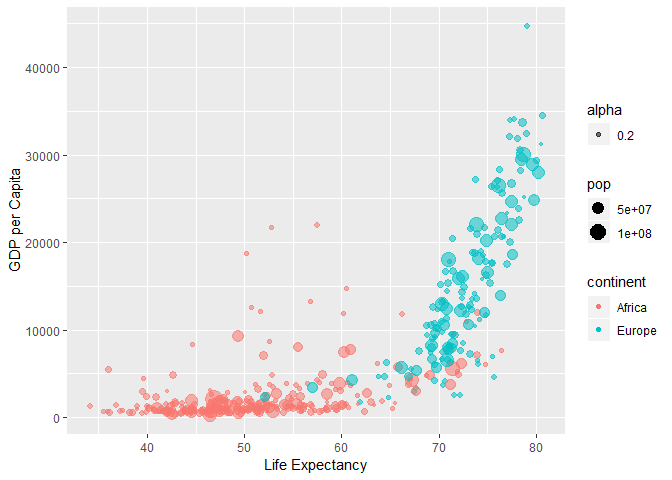
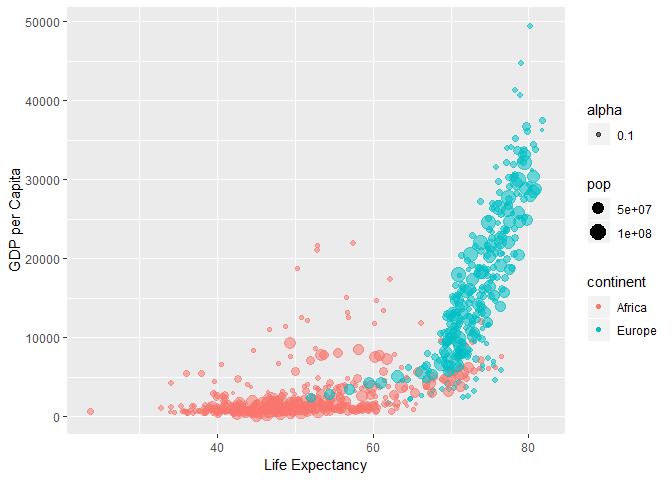
Final

diff --git a/hw02-schignel.md b/hw02-schignel.md
@@ -166,7 +166,7 @@ Let's explore how life expectancy varies across continents.
 
 ``` r
 cvsl <-select(gapminder, continent, lifeExp, pop) #Factor, #Number, and #Integer, respectively
-cvsl # continents vs life expactancy
+cvsl # continents vs life expectancy
 ```
 
     ## # A tibble: 1,704 x 3
@@ -220,33 +220,31 @@ ggplot(cvsl, aes(continent, lifeExp))+
 
 Interesting, we can see that, in the data period (1952-2007), there is a fairly large range for each continent, with the exception of Oceania. In fact, Oceania is on par with Europe, and is the only continent with a life expectancy completely above 65.
 
-I wonder if this has anything to do with it? ![*Perhaps this is a factor?*](https://1.bp.blogspot.com/-Wy4FQMvqW6A/T_8rRJ-gXcI/AAAAAAAAAOA/RuANW6ErQzE/s1600/beach-palm-tree-wallpaper.jpg)
+Perhaps *this* is a factor?
 
-R Markdown
-----------
+![](https://i.dailymail.co.uk/i/pix/2009/09/30/article-1217153-01B93CD5000004B0-430_468x286.jpg)
 
-This is an R Markdown document. Markdown is a simple formatting syntax for authoring HTML, PDF, and MS Word documents. For more details on using R Markdown see <http://rmarkdown.rstudio.com>.
+### Filtering the data
 
-When you click the **Knit** button a document will be generated that includes both content as well as the output of any embedded R code chunks within the document. You can embed an R code chunk like this:
+Suppose we wanted to visualize the relationship between **Life Expectancy** and **Gross Domestic Product per capita** in Europe and Africa over the last 50 years that we have data for:
+
+We can do this through filtering and piping the data into ggplot:
+
+#### Filter the data
 
 ``` r
-#Summarize the cars dataset
-summary(cars)
+select(gapminder, gdpPercap, lifeExp, pop, year, continent) %>% #subsetting data
+  filter(year > 1957, continent==c("Europe","Africa")) %>% #filtering by criteria
+  ggplot(aes(lifeExp, gdpPercap))+ #piped to ggplot
+  geom_point(aes(color=continent, size=pop, alpha=0.2)) + # add aesthetics 
+  xlab("Life Expectancy")+
+  ylab("GDP per Capita")
 ```
 
-    ##      speed           dist       
-    ##  Min.   : 4.0   Min.   :  2.00  
-    ##  1st Qu.:12.0   1st Qu.: 26.00  
-    ##  Median :15.0   Median : 36.00  
-    ##  Mean   :15.4   Mean   : 42.98  
-    ##  3rd Qu.:19.0   3rd Qu.: 56.00  
-    ##  Max.   :25.0   Max.   :120.00
+![](hw02-schignel_files/figure-markdown_github/piping-1.png)
 
-Including Plots
----------------
+Here we can see that most people in Africa tend to live much shorter lives, with less income, than people in Europe.
 
-You can also embed plots, for example:
+Still, we can see that this isn't a hard split. There are some clear outliers in both continents, and a fairly large overlap between the healthier, wealthier Africans and Europeans on the lower ends of the two scales.
 
-![](hw02-schignel_files/figure-markdown_github/pressure-1.png)
-
-Note that the `echo = FALSE` parameter was added to the code chunk to prevent printing of the R code that generated the plot.
+Let's work for more overlap (preferably in the top right corner) in the next 50 years!
